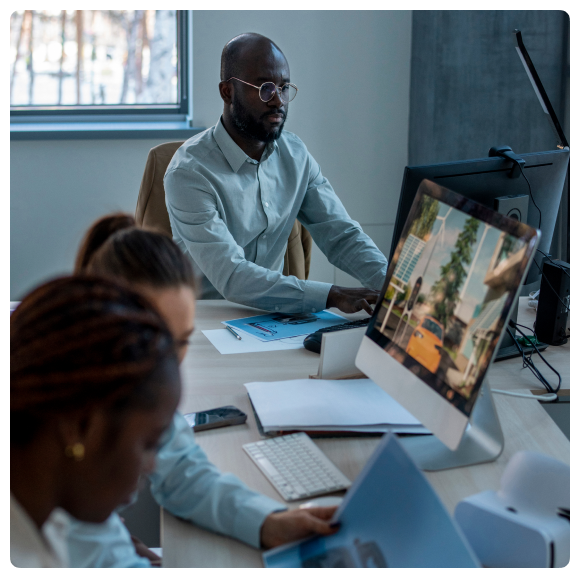
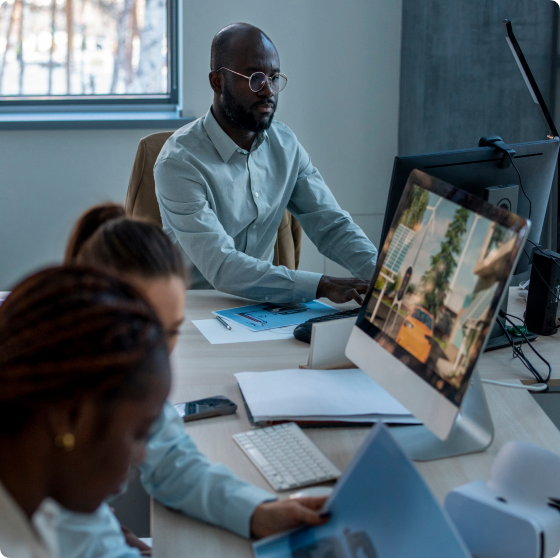
update the ui and add footer

diff --git a/src/components/layouts/Footer.tsx b/src/components/layouts/Footer.tsx
@@ -15,12 +15,12 @@ import {
 
 export default function Navbar() {
   return (
-    <div className='w-full bg-primary text-accent py-8'>
+    <div className='w-full bg-primary text-accent  py-20'>
       <Container>
-        <div className='flex fle-col md:flex-row  items-start space-x-20'>
-          <div className='self-center space-y-6  basis-[45%] h-full'>
+        <div className='flex fle-col md:flex-row  items-start space-x-10'>
+          <div className='self-center space-y-6  basis-[55%] h-full flex-1'>
             <Image src={LightLogo} alt='logo' />
-            <p className='  w-4/5 text-gray-50 opacity-80  leading-relaxed'>
+            <p className='  w-3/5 text-gray-50 opacity-80  leading-relaxed'>
               Ready to take the next step? Have questions about our services?
               We&apos;re here to help. Let&apos;s start building something
               incredible together.
@@ -33,7 +33,7 @@ export default function Navbar() {
                   className='size-6 fill-secondary'
                   xmlns='http://www.w3.org/2000/svg'
                 >
-                  <g clip-path='url(#clip0_419_3572)'>
+                  <g clipPath='url(#clip0_419_3572)'>
                     <path d='M7.55016 22.3957C16.6045 22.3957 21.5583 14.8925 21.5583 8.38761C21.5583 8.17668 21.5536 7.96105 21.5442 7.75011C22.5079 7.05321 23.3395 6.19001 24 5.20105C23.1025 5.60035 22.1496 5.86113 21.1739 5.97449C22.2013 5.35866 22.9705 4.39122 23.3391 3.25152C22.3726 3.82431 21.3156 4.22836 20.2134 4.44636C19.4708 3.65731 18.489 3.13487 17.4197 2.9598C16.3504 2.78474 15.2532 2.9668 14.2977 3.47785C13.3423 3.98889 12.5818 4.80046 12.1338 5.78706C11.6859 6.77367 11.5754 7.88037 11.8195 8.93605C9.86249 8.83784 7.94794 8.32946 6.19998 7.44385C4.45203 6.55824 2.90969 5.31519 1.67297 3.79527C1.0444 4.879 0.852057 6.1614 1.13503 7.38184C1.418 8.60229 2.15506 9.6692 3.19641 10.3657C2.41463 10.3409 1.64998 10.1304 0.965625 9.75167V9.81261C0.964925 10.9499 1.3581 12.0523 2.07831 12.9325C2.79852 13.8127 3.80132 14.4163 4.91625 14.6407C4.19206 14.8389 3.43198 14.8678 2.69484 14.7251C3.00945 15.7032 3.62157 16.5586 4.44577 17.1721C5.26997 17.7855 6.26512 18.1263 7.29234 18.147C5.54842 19.5169 3.39417 20.2599 1.17656 20.2564C0.783287 20.2558 0.390399 20.2317 0 20.1842C2.25286 21.6295 4.87353 22.3971 7.55016 22.3957Z' />
                   </g>
                   <defs>
@@ -53,7 +53,7 @@ export default function Navbar() {
                   className='size-6 fill-secondary'
                   xmlns='http://www.w3.org/2000/svg'
                 >
-                  <g clip-path='url(#clip0_419_3574)'>
+                  <g clipPath='url(#clip0_419_3574)'>
                     <path d='M24 12.6455C24 6.01809 18.6274 0.645508 12 0.645508C5.37258 0.645508 0 6.01809 0 12.6455C0 18.635 4.3882 23.5995 10.125 24.4997V16.1143H7.07812V12.6455H10.125V10.0018C10.125 6.99426 11.9166 5.33301 14.6576 5.33301C15.9701 5.33301 17.3438 5.56738 17.3438 5.56738V8.52051H15.8306C14.34 8.52051 13.875 9.44559 13.875 10.3955V12.6455H17.2031L16.6711 16.1143H13.875V24.4997C19.6118 23.5995 24 18.635 24 12.6455Z' />
                   </g>
                   <defs>
@@ -74,7 +74,7 @@ export default function Navbar() {
                   className='size-6 fill-secondary rounded-sm'
                   xmlns='http://www.w3.org/2000/svg'
                 >
-                  <g clip-path='url(#clip0_419_3576)'>
+                  <g clipPath='url(#clip0_419_3576)'>
                     <path d='M22.2234 0.645508H1.77187C0.792187 0.645508 0 1.41895 0 2.3752V22.9111C0 23.8674 0.792187 24.6455 1.77187 24.6455H22.2234C23.2031 24.6455 24 23.8674 24 22.9158V2.3752C24 1.41895 23.2031 0.645508 22.2234 0.645508ZM7.12031 21.0971H3.55781V9.64082H7.12031V21.0971ZM5.33906 8.07988C4.19531 8.07988 3.27188 7.15645 3.27188 6.01738C3.27188 4.87832 4.19531 3.95488 5.33906 3.95488C6.47813 3.95488 7.40156 4.87832 7.40156 6.01738C7.40156 7.15176 6.47813 8.07988 5.33906 8.07988ZM20.4516 21.0971H16.8937V15.5283C16.8937 14.2018 16.8703 12.4908 15.0422 12.4908C13.1906 12.4908 12.9094 13.9393 12.9094 15.4346V21.0971H9.35625V9.64082H12.7687V11.2064H12.8156C13.2891 10.3064 14.4516 9.35488 16.1813 9.35488C19.7859 9.35488 20.4516 11.7268 20.4516 14.8111V21.0971Z' />
                   </g>
                   <defs>
@@ -145,9 +145,7 @@ export default function Navbar() {
                 <span className='p-3 bg-gray-50 rounded-md'>
                   <Mail className='fill-secondary size-4' />
                 </span>
-                <span className='capitalize opacity-80 '>
-                  GroupNivabit@gmail.com
-                </span>
+                <span className='opacity-80 '>Groupnivabit@gmail.com</span>
               </Link>
               <Link href='lorem' className='flex items-center space-x-3'>
                 <span className='p-3 bg-gray-50 rounded-md'>

diff --git a/src/components/home/MeetUs.tsx b/src/components/home/MeetUs.tsx
@@ -70,8 +70,11 @@ export default function MeetUs() {
             </li>
           </ul>
         </div>
-        <div className='flex-1 relative items-center justify-center bg-[url("/meetus.png")] h-[450px] w-full'>
-          <div className='bg-secondary absolute h-[150px]  w-[200px] bottom-[-2rem] -right-[56px] rounded-2xl -z-40 '></div>
+        <div className='flex-1'>
+          <div className='relative'>
+            <div className=' bg-secondary absolute h-[150px]  w-[200px]  bottom-[-2rem] right-[21px] rounded-2xl -z-10'></div>
+            <Image src={MeetUsImage} alt='meet us' className='h-[450px] ' />
+          </div>
         </div>
       </div>
     </Container>

diff --git a/src/components/home/ClientCarouselSpacing.tsx b/src/components/home/ClientCarouselSpacing.tsx
@@ -48,7 +48,7 @@ export default function ClientCarouselSpacing() {
               className='pl-1 md:basis-1/2 lg:basis-[30%]'
             >
               <div className=''>
-                <Card className='border-none bg-transparent text-card-foreground shadow-none m-0  rounded-none'>
+                <Card className='border-none bg-white text-card-foreground shadow-none m-0  rounded-none'>
                   <CardContent
                     className='flex items-center justify-center
                   h-[100px] w-full space-x-4 p-6 shadow-none'

diff --git a/src/components/home/Testimonials.tsx b/src/components/home/Testimonials.tsx
@@ -133,7 +133,7 @@ export default function Testimonials() {
                         </div>
                       </CardTitle>
                       <CardDescription className='flex flex-col gap-2'>
-                        <h3 className=' font-normal text-lg text-gray-700 text-left capitalize'>
+                        <h3 className=' font-normal text-lg text-gray-900 text-left capitalize'>
                           {name}
                         </h3>
                         <h3 className='font-normal text-lg text-primary text-left capitalize'>

diff --git a/src/components/home/Services.tsx b/src/components/home/Services.tsx
@@ -133,7 +133,8 @@ export default function Services() {
       >
         <div className='text-center space-y-4 md:w-3/5'>
           <h2 className='text-[50px] font-extrabold leading-tight text-center'>
-            Elevate Your Digital Presence - Explore
+            Elevate Your Digital Presence - Explore{" "}
+            
             <span className='text-secondary'>Our Services</span>{" "}
           </h2>
           <p className='text-md text-gray-700'>
